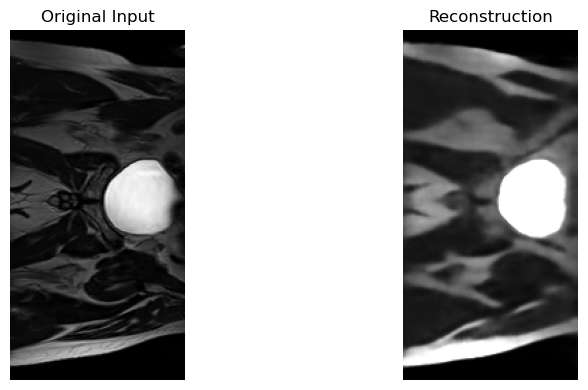
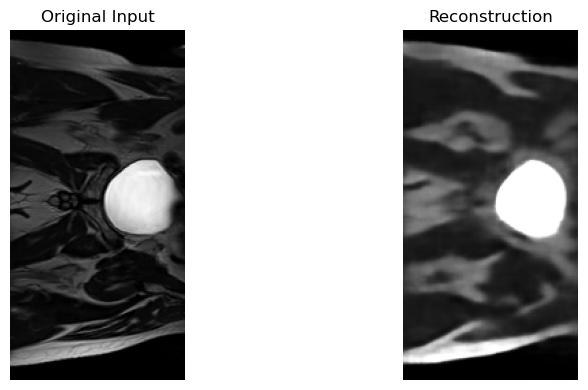
README.md file updated and images.
This matches most recent model outputs.

diff --git a/recognition/VQ_VAE_46989381/README.MD b/recognition/VQ_VAE_46989381/README.MD
@@ -118,6 +118,20 @@ After training, a new folder named **`train_dir`** will be created. This directo
 
 Now that the model has been trained, we can demonstrate an example using **`predict.py`**.  
 
+Your *predict.out* file should look like this: 
+```bash
+Loading model...
+Model loaded from train_dir/vqvae_model.pth
+Loading data...
+All tensors loaded successfully!
+Train tensor shape: torch.Size([11460, 1, 256, 128])
+Validation tensor shape: torch.Size([660, 1, 256, 128])
+Test tensor shape: torch.Size([540, 1, 256, 128])
+Test data loaded successfully.
+Saved reconstruction figure to predict_dir/reconstruction.png
+Prediction complete.
+```
+
 After running the prediction script, a new folder named **`predict_dir`** will be created. This directory contains:  
 - An example reconstructed slice generated by the model: **`reconstruction.png`**
 
